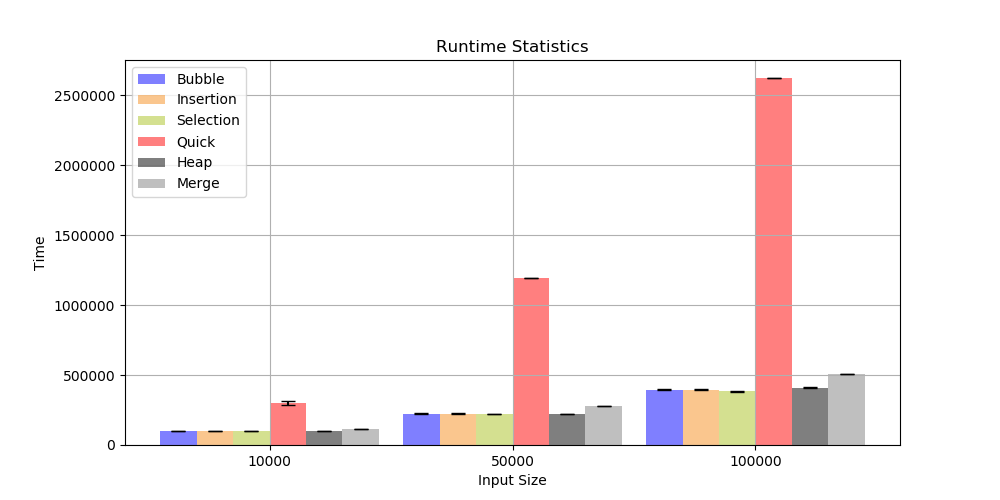
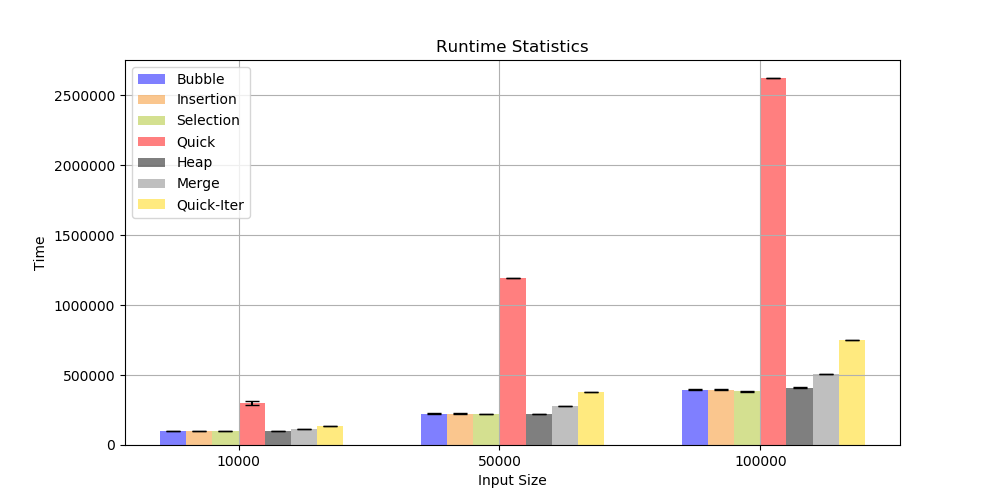
Included quick iter

Changed region(s): [[0.186, 0.15, 0.868, 0.93], [0.124, 0.39, 0.248, 0.42]]

diff --git a/Execution/Memory/error-plot.py b/Execution/Memory/error-plot.py
@@ -17,7 +17,8 @@ raw_mean = {'n': [10000, 50000, 100000],
         'selection': [0,0,0],
         'heap': [0,0,0],
         'quick': [0,0,0],
-        'merge': [0,0,0]}
+        'merge': [0,0,0],
+        'quick-iter': [0,0,0]}
 
 raw_sd = {'n': [10000, 50000, 100000],
         'bubble': [0,0,0],
@@ -25,7 +26,8 @@ raw_sd = {'n': [10000, 50000, 100000],
         'selection': [0,0,0],
         'heap': [0,0,0],
         'quick': [0,0,0],
-        'merge': [0,0,0]}
+        'merge': [0,0,0],
+        'quick-iter': [0,0,0]}
 
 raw_ci = {'n': [10000, 50000, 100000],
         'bubble': [0,0,0],
@@ -33,27 +35,27 @@ raw_ci = {'n': [10000, 50000, 100000],
         'selection': [0,0,0],
         'heap': [0,0,0],
         'quick': [0,0,0],
-        'merge': [0,0,0]}
+        'merge': [0,0,0],
+        'quick-iter': [0,0,0]}
 
 for d1 in os.listdir('Results'):
-    if d1 != 'quick-iter':
-        for file in os.listdir('Results/'+d1):
-            if file.endswith('stats.csv'):
-                with open('Results/'+d1+'/'+file) as f:
-                    for line in f:
-                        line = line.strip()
-                        if line != '':
-                            line = line.split(',')
-                            if line[0] in list(index.keys()):
-                                raw_mean[d1][index[line[0]]] = float(line[1])
-                                raw_sd[d1][index[line[0]]] = float(line[2])
-                                raw_ci[d1][index[line[0]]] = float(line[4])
+    for file in os.listdir('Results/'+d1):
+        if file.endswith('stats.csv'):
+            with open('Results/'+d1+'/'+file) as f:
+                for line in f:
+                    line = line.strip()
+                    if line != '':
+                        line = line.split(',')
+                        if line[0] in list(index.keys()):
+                            raw_mean[d1][index[line[0]]] = float(line[1])
+                            raw_sd[d1][index[line[0]]] = float(line[2])
+                            raw_ci[d1][index[line[0]]] = float(line[4])
 
-df = pd.DataFrame(raw_mean, columns = ['n', 'bubble', 'insertion', 'selection', 'heap', 'quick', 'merge'])
+df = pd.DataFrame(raw_mean, columns = ['n', 'bubble', 'insertion', 'selection', 'heap', 'quick', 'merge', 'quick-iter'])
 
 # Setting the positions and width for the bars
 pos = list(range(len(df['n'])))
-width = 0.15
+width = 0.1
     
 # Plotting the bars
 fig, ax = plt.subplots(figsize=(10,5))
@@ -184,6 +186,27 @@ plt.bar([p + width*5 for p in pos],
         yerr=error,
         capsize=5)
 
+# Create a bar with quick-iter data,
+# in position pos + some width buffer,
+if metric == 'sd':
+    error = raw_sd['quick-iter']
+else:
+    error = raw_ci['quick-iter']
+
+plt.bar([p + width*6 for p in pos], 
+        #using df['quick-iter'] data,
+        df['quick-iter'], 
+        # of width
+        width, 
+        # with alpha 0.5
+        alpha=0.5, 
+        # with color
+        color='gold', 
+        # with label the third value in first_name
+        # label=df['n'][5],
+        yerr=error,
+        capsize=5)
+
 # scale
 if y_scale:
     ax.set_yscale('log')
@@ -210,6 +233,6 @@ ax.set_xticklabels(df['n'])
 # plt.ylim([0, max(df['pre_score'] + df['mid_score'] + df['post_score'])] )
 
 # Adding the legend and showing the plot
-plt.legend(['Bubble', 'Insertion', 'Selection', 'Quick', 'Heap', 'Merge'], loc='upper left')
+plt.legend(['Bubble', 'Insertion', 'Selection', 'Quick', 'Heap', 'Merge', 'Quick-Iter'], loc='upper left')
 plt.grid()
 plt.savefig('Figures/'+output)
